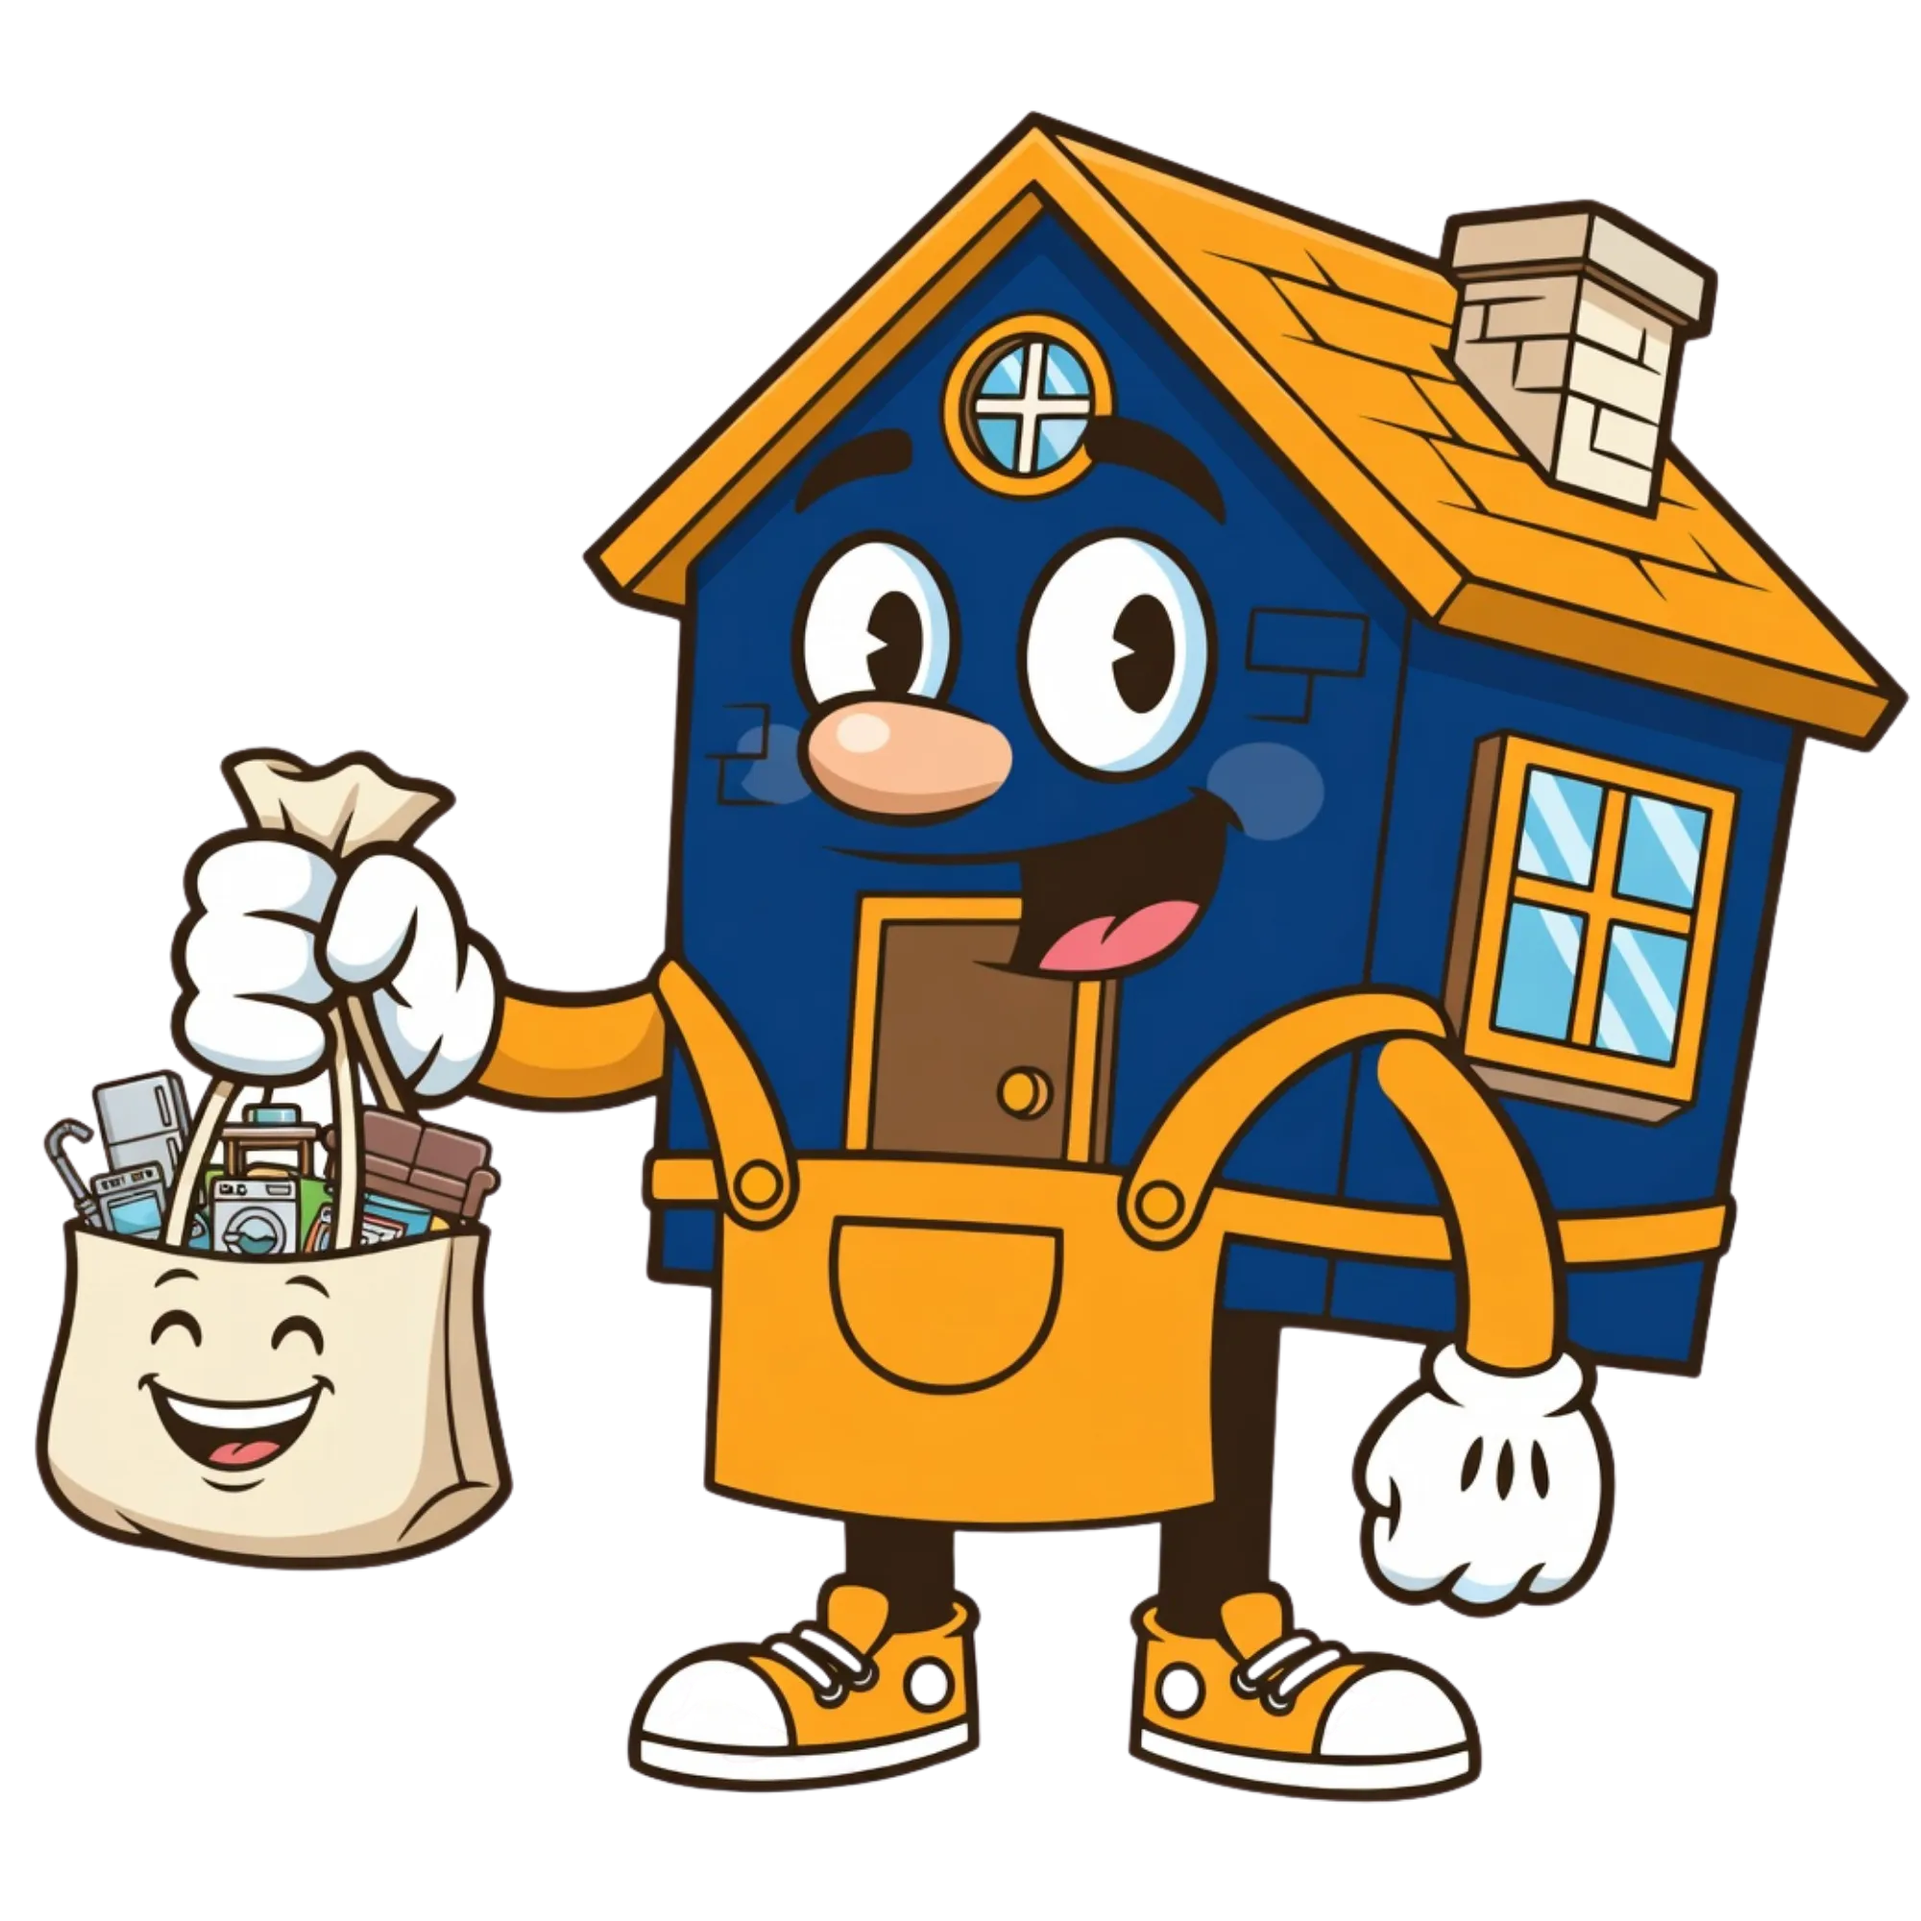
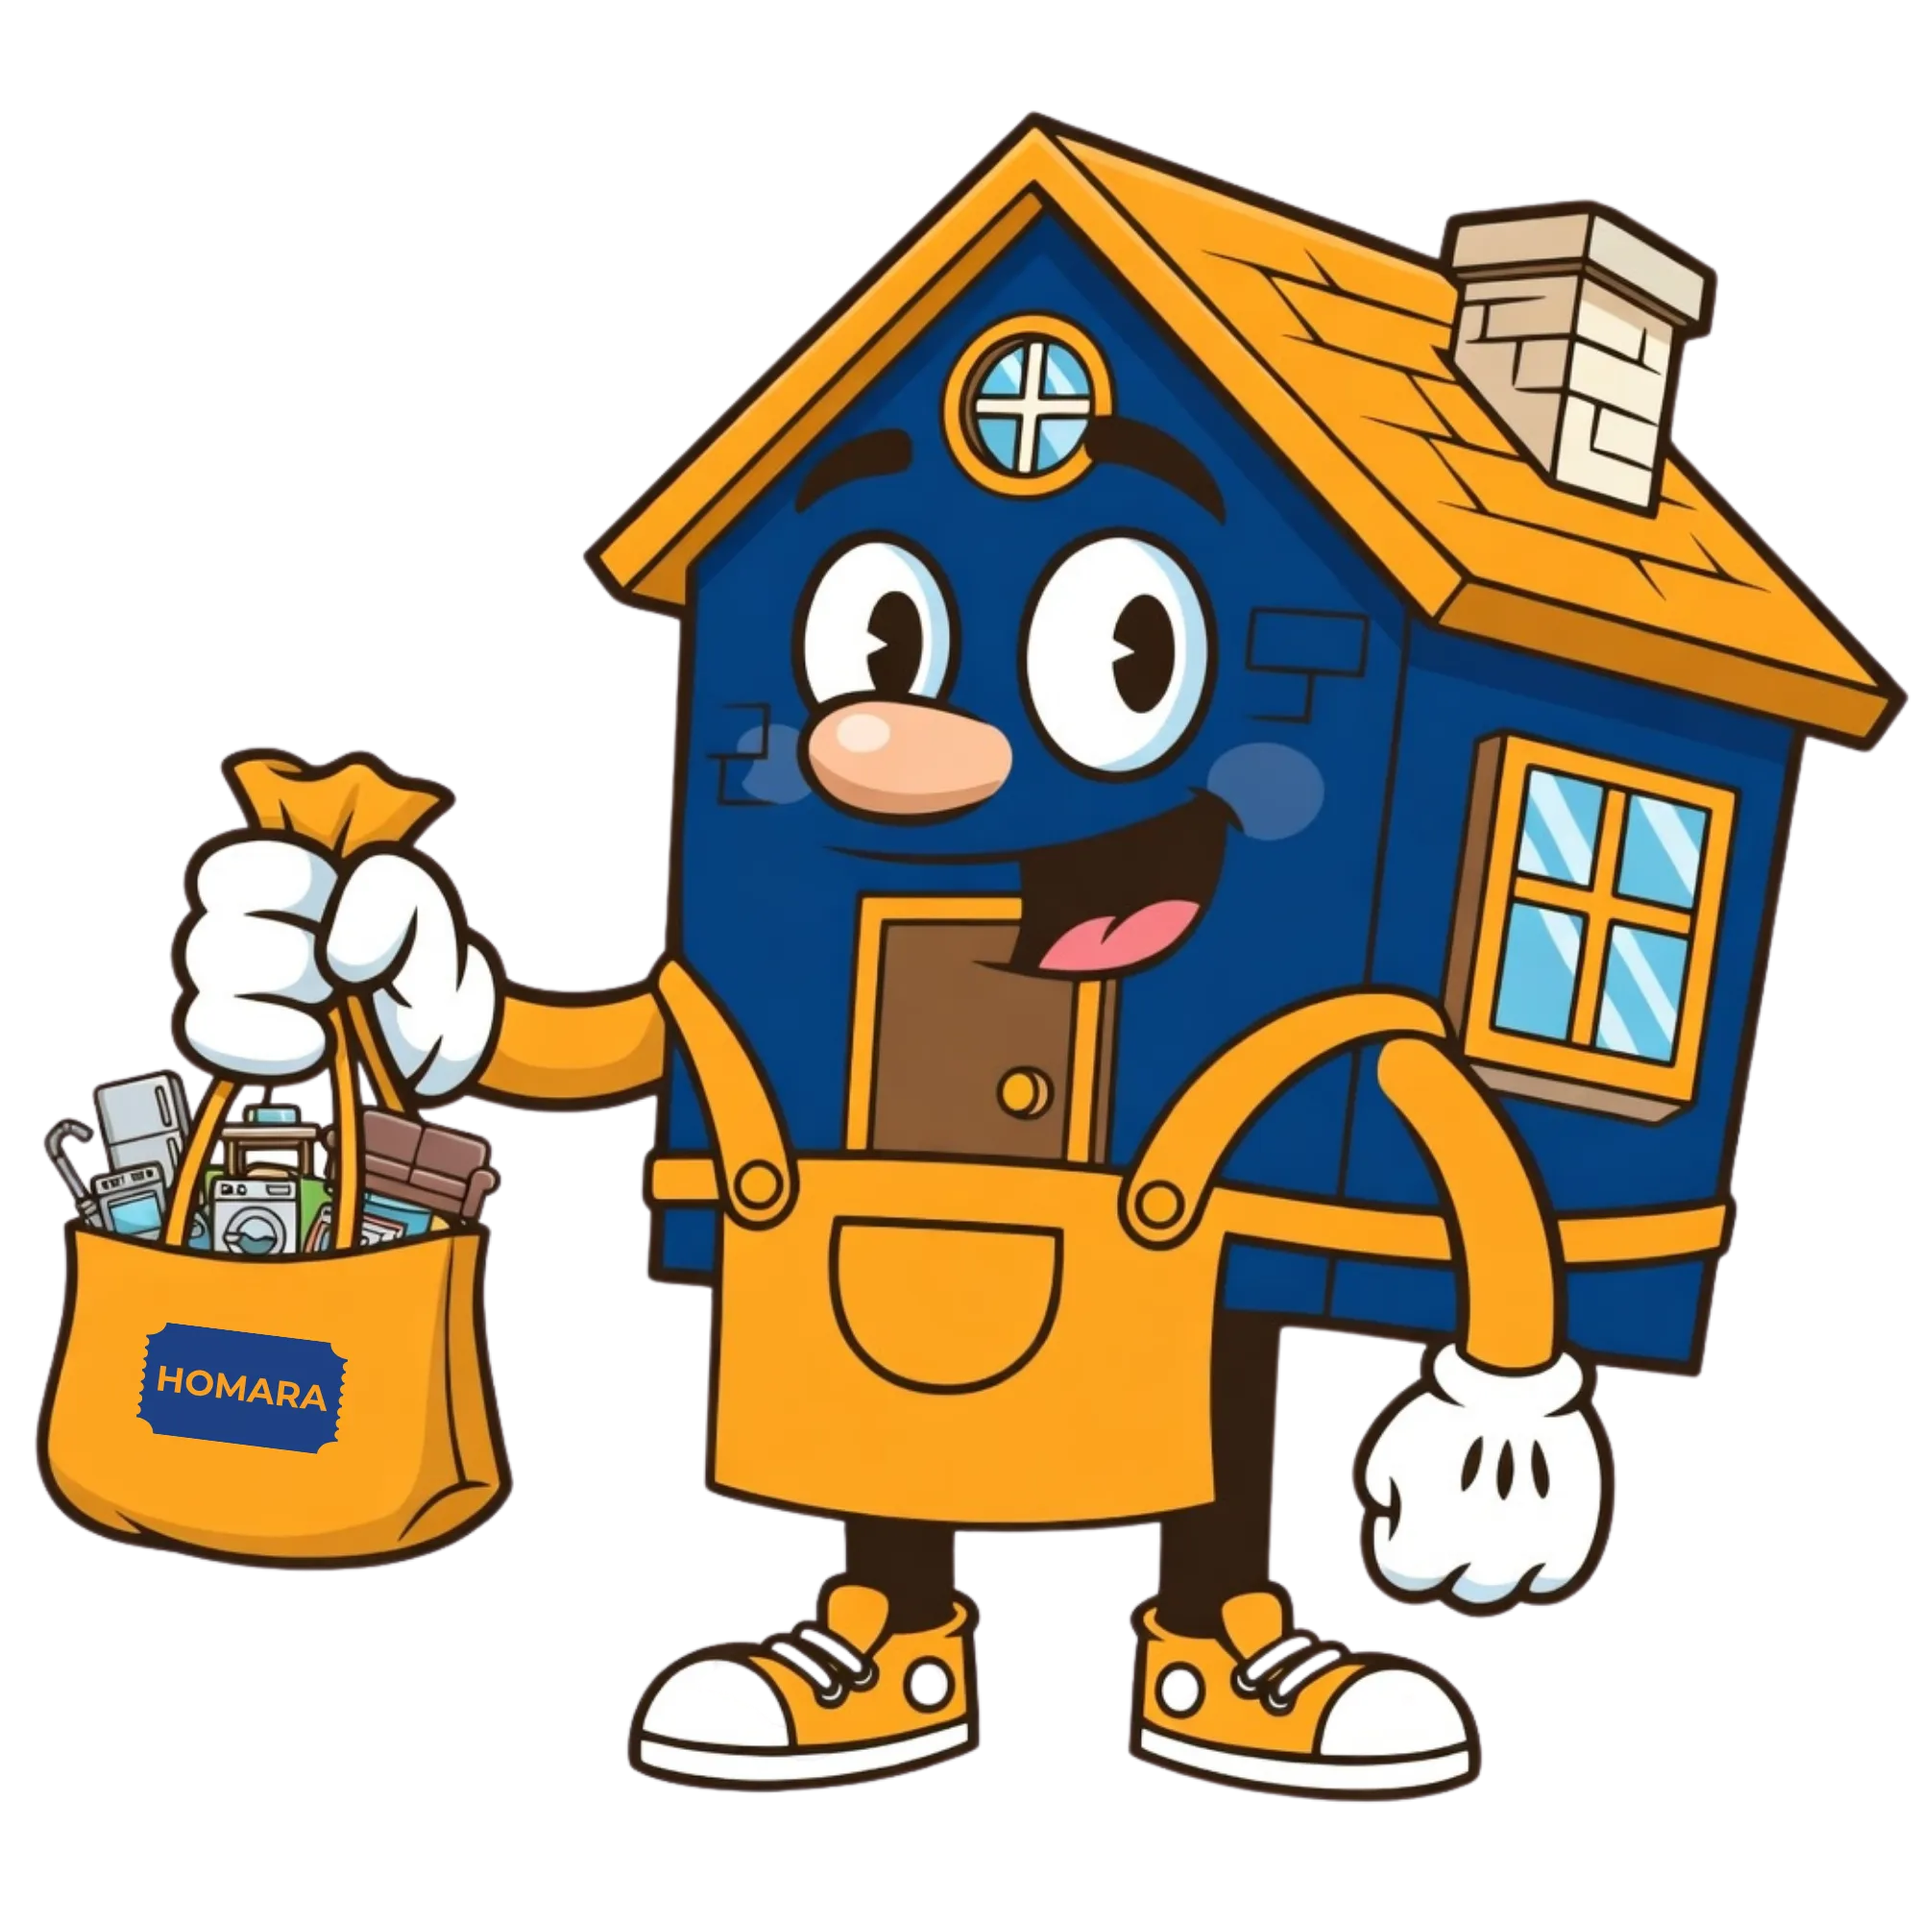
feat: update mobile header layout and mascot asset

Changed region(s): [[0.0, 0.527, 0.279, 0.837], [0.124, 0.372, 0.248, 0.465]]

diff --git a/src/components/layout/Header.tsx b/src/components/layout/Header.tsx
@@ -55,6 +55,16 @@ const Header = () => {
 
   const activeCategory = categories.find(c => c.id === activeCategoryId) || categories[0];
   const mobileActiveCategory = categories.find((category) => category.id === mobileActiveCategoryId);
+  const toggleMegaMenu = () => {
+    setMegaMenuOpen((previous) => {
+      const nextOpen = !previous;
+      if (nextOpen) {
+        setActiveCategoryId(categories[0]?.id || null);
+        setMobileActiveCategoryId(null);
+      }
+      return nextOpen;
+    });
+  };
 
   return (
     <header className="sticky top-0 z-50 bg-card/95 backdrop-blur-md border-b border-border">
@@ -74,19 +84,10 @@ const Header = () => {
 
       {/* Main header */}
       <div className="container mx-auto px-4 py-3">
-        <div className="flex items-center gap-4">
+        <div className="hidden md:flex items-center gap-4">
           {/* Hamburger mega menu trigger */}
           <button
-            onClick={() => {
-              setMegaMenuOpen((previous) => {
-                const nextOpen = !previous;
-                if (nextOpen) {
-                  setActiveCategoryId(categories[0]?.id || null);
-                  setMobileActiveCategoryId(null);
-                }
-                return nextOpen;
-              });
-            }}
+            onClick={toggleMegaMenu}
             className="p-2 rounded-lg hover:bg-secondary transition-colors"
             aria-label="Menú de categorías"
           >
@@ -97,13 +98,13 @@ const Header = () => {
             <img
               src="/homara-logo.svg"
               alt="Homara"
-              className="h-9 w-auto md:h-11"
+              className="h-11 w-auto"
               loading="eager"
               decoding="async"
             />
           </Link>
 
-          <div className="flex-1 max-w-2xl hidden md:block">
+          <div className="flex-1 max-w-2xl">
             <form className="relative" onSubmit={handleSearchSubmit}>
               <button
                 type="submit"
@@ -133,9 +134,18 @@ const Header = () => {
           </div>
         </div>
 
-        {/* Mobile search */}
-        <div className="md:hidden mt-3">
-          <form className="relative" onSubmit={handleSearchSubmit}>
+        <div className="flex items-center gap-2 md:hidden">
+          <Link to="/" className="flex-shrink-0">
+            <img
+              src="/homara-logo.svg"
+              alt="Homara"
+              className="h-9 w-auto"
+              loading="eager"
+              decoding="async"
+            />
+          </Link>
+
+          <form className="relative flex-1" onSubmit={handleSearchSubmit}>
             <button
               type="submit"
               aria-label="Buscar"
@@ -151,6 +161,14 @@ const Header = () => {
               className="w-full pl-10 pr-4 py-2.5 rounded-xl border border-border bg-secondary/50 text-sm focus:outline-none focus:ring-2 focus:ring-accent/50 transition-all"
             />
           </form>
+
+          <button
+            onClick={toggleMegaMenu}
+            className="p-2 rounded-lg hover:bg-secondary transition-colors"
+            aria-label="Menú de categorías"
+          >
+            {megaMenuOpen ? <X className="w-5 h-5" /> : <Menu className="w-5 h-5" />}
+          </button>
         </div>
       </div>
 
